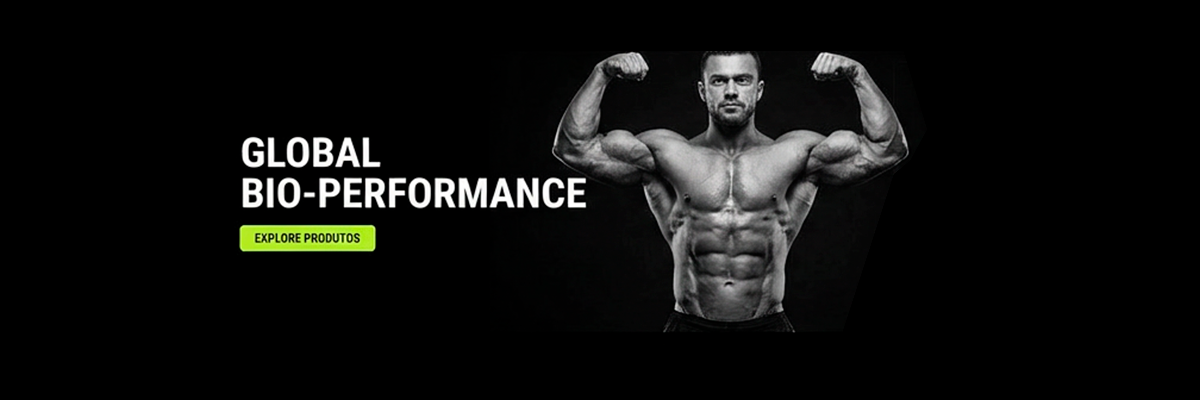
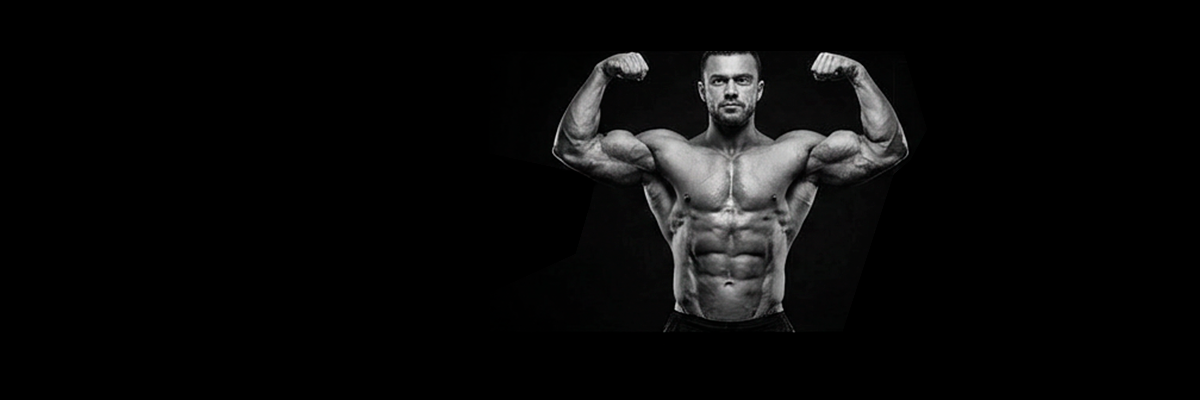
Adicionar seções Byologic e Neopeptides com auto-load e fade out

Changed region(s): [[0.185, 0.33, 0.4933, 0.63]]

diff --git a/src/components/NeopeptidesList.jsx b/src/components/NeopeptidesList.jsx
@@ -4,24 +4,19 @@ import { motion } from 'framer-motion';
 import { useNavigate } from 'react-router-dom';
 import { useCart } from '../context/CartContext';
 
-// Auto-load all images from src/assets/produtos
-const imageModules = import.meta.glob('../assets/produtos/*.{png,jpg,jpeg,webp}', {
+// Auto-load all images from src/assets/neopeptides
+const imageModules = import.meta.glob('../assets/neopeptides/*.{png,jpg,jpeg,webp}', {
   eager: true,
   import: 'default',
 });
 
-// Optional metadata per file (price/description). Defaults applied otherwise.
 const productMeta = {
-  'BPC-157': { price: 'R$259,00', description: 'Peptídeo de pesquisa para regeneração tecidual' },
-  'GHK-Cu': { price: 'R$359,00', description: 'Tripeptídeo cobre para estudos de pele' },
-  'KLOW 80 mg': { price: 'R$194,80', description: 'Blend exclusivo para pesquisa' },
-  'MOTS-c': { price: 'R$299,00', description: 'Peptídeo mitocondrial para pesquisa metabólica' },
-  'TESAMORELIN': { price: 'R$259,00', description: 'Análogo do GHRH para pesquisa' },
+  // Add per-file metadata here, e.g.:
+  // 'NomeDoArquivo': { price: 'R$199,90', description: '...' },
 };
 
 const products = Object.entries(imageModules).map(([path, src], i) => {
   const filename = path.split('/').pop().replace(/\.[^.]+$/, '');
-  // Parse "Nome+199,90" → name "Nome", price "R$199,90"
   const [rawName, rawPrice] = filename.split('+');
   const name = rawName.trim();
   const meta = productMeta[name] || {};
@@ -31,7 +26,7 @@ const products = Object.entries(imageModules).map(([path, src], i) => {
   return {
     id: i + 1,
     name,
-    description: meta.description || 'Peptídeo para pesquisa científica',
+    description: meta.description || 'Produto Neopeptides para pesquisa',
     price,
     img: src,
   };
@@ -47,11 +42,11 @@ const ProductCard = ({ product }) => {
   return (
     <React.Fragment>
       <motion.div
-        whileHover={{ y: -4, borderColor: 'var(--neon)' }}
+        whileHover={{ y: -4, boxShadow: '0 0 0 1px #96e348, 0 0 25px rgba(150, 227, 72, 0.45)' }}
         onClick={() => setZoom(true)}
         style={{
           backgroundColor: '#0a0a0a',
-          border: '1px solid #2a2a2a',
+          border: 'none',
           borderRadius: '4px',
           padding: '1rem',
           display: 'flex',
@@ -115,7 +110,7 @@ const ProductCard = ({ product }) => {
             display: 'flex', alignItems: 'center', justifyContent: 'center', zIndex: 9999, cursor: 'zoom-out'
           }}
         >
-          <div onClick={(e) => e.stopPropagation()} style={{ position: 'relative', width: '500px', height: '500px', backgroundColor: 'var(--surface)', padding: '1rem' }}>
+          <div onClick={(e) => e.stopPropagation()} style={{ position: 'relative', width: '500px', height: '500px', backgroundColor: '#fff', padding: '1rem' }}>
             <button
               type="button"
               onClick={closeZoom}
@@ -132,17 +127,17 @@ const ProductCard = ({ product }) => {
   );
 };
 
-const ProductList = () => {
+const NeopeptidesList = () => {
   return (
-    <section id="peptideos" style={{ padding: '0 0 100px', scrollMarginTop: '100px' }}>
+    <section id="neopeptides-section" style={{ padding: '60px 0', scrollMarginTop: '100px' }}>
       <div className="container">
         <div style={{
           background: 'linear-gradient(180deg, #1a1a1a 0%, #0f0f0f 100%)',
           padding: '1.5rem',
           borderRadius: '6px',
         }}>
-          <h2 className="section-title" style={{ marginBottom: '1.5rem', fontFamily: "'Inter', sans-serif", fontWeight: 600, fontSize: '1.53rem' }}>
-            PRODUTOS EM DESTAQUE
+          <h2 className="section-title" style={{ marginBottom: '1.5rem', fontFamily: "'Inter', sans-serif", fontWeight: 600, fontSize: '1.53rem', color: '#ffffff' }}>
+            NEOPEPTIDES
           </h2>
           <div style={{
             display: 'grid',
@@ -157,4 +152,4 @@ const ProductList = () => {
   );
 };
 
-export default ProductList;
+export default NeopeptidesList;

diff --git a/src/components/ByologicList.jsx b/src/components/ByologicList.jsx
@@ -4,24 +4,19 @@ import { motion } from 'framer-motion';
 import { useNavigate } from 'react-router-dom';
 import { useCart } from '../context/CartContext';
 
-// Auto-load all images from src/assets/produtos
-const imageModules = import.meta.glob('../assets/produtos/*.{png,jpg,jpeg,webp}', {
+// Auto-load all images from src/assets/byologic
+const imageModules = import.meta.glob('../assets/byologic/*.{png,jpg,jpeg,webp}', {
   eager: true,
   import: 'default',
 });
 
-// Optional metadata per file (price/description). Defaults applied otherwise.
 const productMeta = {
-  'BPC-157': { price: 'R$259,00', description: 'Peptídeo de pesquisa para regeneração tecidual' },
-  'GHK-Cu': { price: 'R$359,00', description: 'Tripeptídeo cobre para estudos de pele' },
-  'KLOW 80 mg': { price: 'R$194,80', description: 'Blend exclusivo para pesquisa' },
-  'MOTS-c': { price: 'R$299,00', description: 'Peptídeo mitocondrial para pesquisa metabólica' },
-  'TESAMORELIN': { price: 'R$259,00', description: 'Análogo do GHRH para pesquisa' },
+  // Add per-file metadata here, e.g.:
+  // 'NomeDoArquivo': { price: 'R$199,90', description: '...' },
 };
 
 const products = Object.entries(imageModules).map(([path, src], i) => {
   const filename = path.split('/').pop().replace(/\.[^.]+$/, '');
-  // Parse "Nome+199,90" → name "Nome", price "R$199,90"
   const [rawName, rawPrice] = filename.split('+');
   const name = rawName.trim();
   const meta = productMeta[name] || {};
@@ -31,7 +26,7 @@ const products = Object.entries(imageModules).map(([path, src], i) => {
   return {
     id: i + 1,
     name,
-    description: meta.description || 'Peptídeo para pesquisa científica',
+    description: meta.description || 'Produto BYOLOGIC para pesquisa',
     price,
     img: src,
   };
@@ -47,11 +42,11 @@ const ProductCard = ({ product }) => {
   return (
     <React.Fragment>
       <motion.div
-        whileHover={{ y: -4, borderColor: 'var(--neon)' }}
+        whileHover={{ y: -4, boxShadow: '0 0 0 1px #96e348, 0 0 25px rgba(150, 227, 72, 0.45)' }}
         onClick={() => setZoom(true)}
         style={{
           backgroundColor: '#0a0a0a',
-          border: '1px solid #2a2a2a',
+          border: 'none',
           borderRadius: '4px',
           padding: '1rem',
           display: 'flex',
@@ -115,7 +110,7 @@ const ProductCard = ({ product }) => {
             display: 'flex', alignItems: 'center', justifyContent: 'center', zIndex: 9999, cursor: 'zoom-out'
           }}
         >
-          <div onClick={(e) => e.stopPropagation()} style={{ position: 'relative', width: '500px', height: '500px', backgroundColor: 'var(--surface)', padding: '1rem' }}>
+          <div onClick={(e) => e.stopPropagation()} style={{ position: 'relative', width: '500px', height: '500px', backgroundColor: '#fff', padding: '1rem' }}>
             <button
               type="button"
               onClick={closeZoom}
@@ -132,17 +127,17 @@ const ProductCard = ({ product }) => {
   );
 };
 
-const ProductList = () => {
+const ByologicList = () => {
   return (
-    <section id="peptideos" style={{ padding: '0 0 100px', scrollMarginTop: '100px' }}>
+    <section id="byologic" style={{ padding: '60px 0', scrollMarginTop: '100px' }}>
       <div className="container">
         <div style={{
           background: 'linear-gradient(180deg, #1a1a1a 0%, #0f0f0f 100%)',
           padding: '1.5rem',
           borderRadius: '6px',
         }}>
-          <h2 className="section-title" style={{ marginBottom: '1.5rem', fontFamily: "'Inter', sans-serif", fontWeight: 600, fontSize: '1.53rem' }}>
-            PRODUTOS EM DESTAQUE
+          <h2 className="section-title" style={{ marginBottom: '1.5rem', fontFamily: "'Inter', sans-serif", fontWeight: 600, fontSize: '1.53rem', color: '#ffffff' }}>
+            BYOLOGIC
           </h2>
           <div style={{
             display: 'grid',
@@ -157,4 +152,4 @@ const ProductList = () => {
   );
 };
 
-export default ProductList;
+export default ByologicList;

diff --git a/src/components/Hero.jsx b/src/components/Hero.jsx
@@ -5,6 +5,15 @@ import { Link } from 'react-router-dom';
 
 const BASE = import.meta.env.BASE_URL;
 
+// Auto-load all banner images from src/assets/banners
+const bannerModules = import.meta.glob('../assets/banners/*.{png,jpg,jpeg,webp}', {
+  eager: true,
+  import: 'default',
+});
+const banners = Object.entries(bannerModules)
+  .sort(([a], [b]) => a.localeCompare(b))
+  .map(([, src]) => src);
+
 const slides = [
   {
     id: 1,
@@ -13,7 +22,7 @@ const slides = [
     titleNeon: 'menos gordura',
     titlePost: '',
     description: 'Ative seu corpo para queimar gordura com Tesamorelina',
-    image: `${BASE}Banner 1.png`,
+    image: `${BASE}Foto banner 1.png`,
     bg: 'linear-gradient(135deg, #0a0a0a 0%, #1a2410 100%)',
   },
   {
@@ -41,8 +50,22 @@ const slides = [
 const AUTOPLAY_MS = 6000;
 
 const Hero = () => {
+  const [opacity, setOpacity] = useState(1);
+  useEffect(() => {
+    const onScroll = () => {
+      const y = window.scrollY;
+      const fadeStart = 50;
+      const fadeEnd = 500;
+      const op = Math.max(0, Math.min(1, 1 - (y - fadeStart) / (fadeEnd - fadeStart)));
+      setOpacity(op);
+    };
+    window.addEventListener('scroll', onScroll, { passive: true });
+    return () => window.removeEventListener('scroll', onScroll);
+  }, []);
   return (
     <section style={{
+      opacity,
+      transition: 'opacity 0.1s linear',
       position: 'relative',
       width: '100%',
       height: '80vh',
@@ -52,30 +75,28 @@ const Hero = () => {
       display: 'flex',
       alignItems: 'center'
     }}>
-      {/* Background Image */}
+      {/* Right-side Image */}
       <div style={{
         position: 'absolute',
-        inset: 0,
+        right: 0,
+        top: 0,
+        bottom: 0,
+        width: '55%',
         zIndex: 1
       }}>
         <img
-          src={`${import.meta.env.BASE_URL}Banner 1.png`}
+          src={banners[0] || `${import.meta.env.BASE_URL}Foto banner 1.png`}
           alt="Hero Banner"
           style={{
             width: '100%',
             height: '100%',
-            objectFit: 'cover',
-            objectPosition: 'center',
-            display: 'block'
+            objectFit: 'contain',
+            objectPosition: 'right center',
+            display: 'block',
+            transform: 'scale(1.3)',
+            transformOrigin: 'right center'
           }}
         />
-        {/* Overlay for better text readability if needed */}
-        <div style={{
-          position: 'absolute',
-          inset: 0,
-          background: 'linear-gradient(90deg, rgba(0,0,0,0.8) 0%, rgba(0,0,0,0.4) 40%, transparent 100%)',
-          zIndex: 2
-        }} />
       </div>
 
       <div className="container" style={{
@@ -92,9 +113,9 @@ const Hero = () => {
           style={{ maxWidth: '600px' }}
         >
           <h1 style={{
-            fontFamily: "'Archivo Black', sans-serif",
+            fontFamily: "'Inter', sans-serif",
             fontSize: 'clamp(2.5rem, 6vw, 4.5rem)',
-            fontWeight: 900,
+            fontWeight: 600,
             lineHeight: 1,
             color: '#fff',
             textTransform: 'uppercase',

diff --git a/src/index.css b/src/index.css
@@ -1,4 +1,4 @@
-@import url('https://fonts.googleapis.com/css2?family=Outfit:wght@400;700;900&family=Inter:wght@400;600;800;900&family=Archivo+Black&display=swap');
+@import url('https://fonts.googleapis.com/css2?family=Outfit:wght@400;700;900&family=Inter:wght@400;600;800;900&family=Archivo+Black&family=Anton&family=Montserrat:wght@400;600;700;800;900&display=swap');
 
 :root {
   --neon: #96e348;
@@ -8,7 +8,7 @@
   --text: #ffffff;
   --text-muted: #888888;
   --font-main: 'Inter', sans-serif;
-  --font-heading: 'Outfit', sans-serif;
+  --font-heading: 'Inter', sans-serif;
   --container-width: 1200px;
   --transition: all 0.3s cubic-bezier(0.4, 0, 0.2, 1);
 }
@@ -27,6 +27,7 @@ body {
   background-color: var(--bg);
   color: var(--text);
   font-family: var(--font-main);
+  font-weight: 800;
   overflow-x: hidden;
   -webkit-font-smoothing: antialiased;
 }

diff --git a/src/App.jsx b/src/App.jsx
@@ -3,7 +3,8 @@ import { BrowserRouter as Router, Routes, Route } from 'react-router-dom';
 import Navbar from './components/Navbar';
 import Hero from './components/Hero';
 import ProductList from './components/ProductList';
-import Stats from './components/Stats';
+import ByologicList from './components/ByologicList';
+import NeopeptidesList from './components/NeopeptidesList';
 import Footer from './components/Footer';
 import PurchasePage from './pages/PurchasePage';
 import PaymentDeliveryPage from './pages/PaymentDeliveryPage';
@@ -13,8 +14,9 @@ import ScrollToTop from './components/ScrollToTop';
 const HomePage = () => (
   <>
     <Hero />
-    <Stats />
     <ProductList />
+    <ByologicList />
+    <NeopeptidesList />
   </>
 );
 
